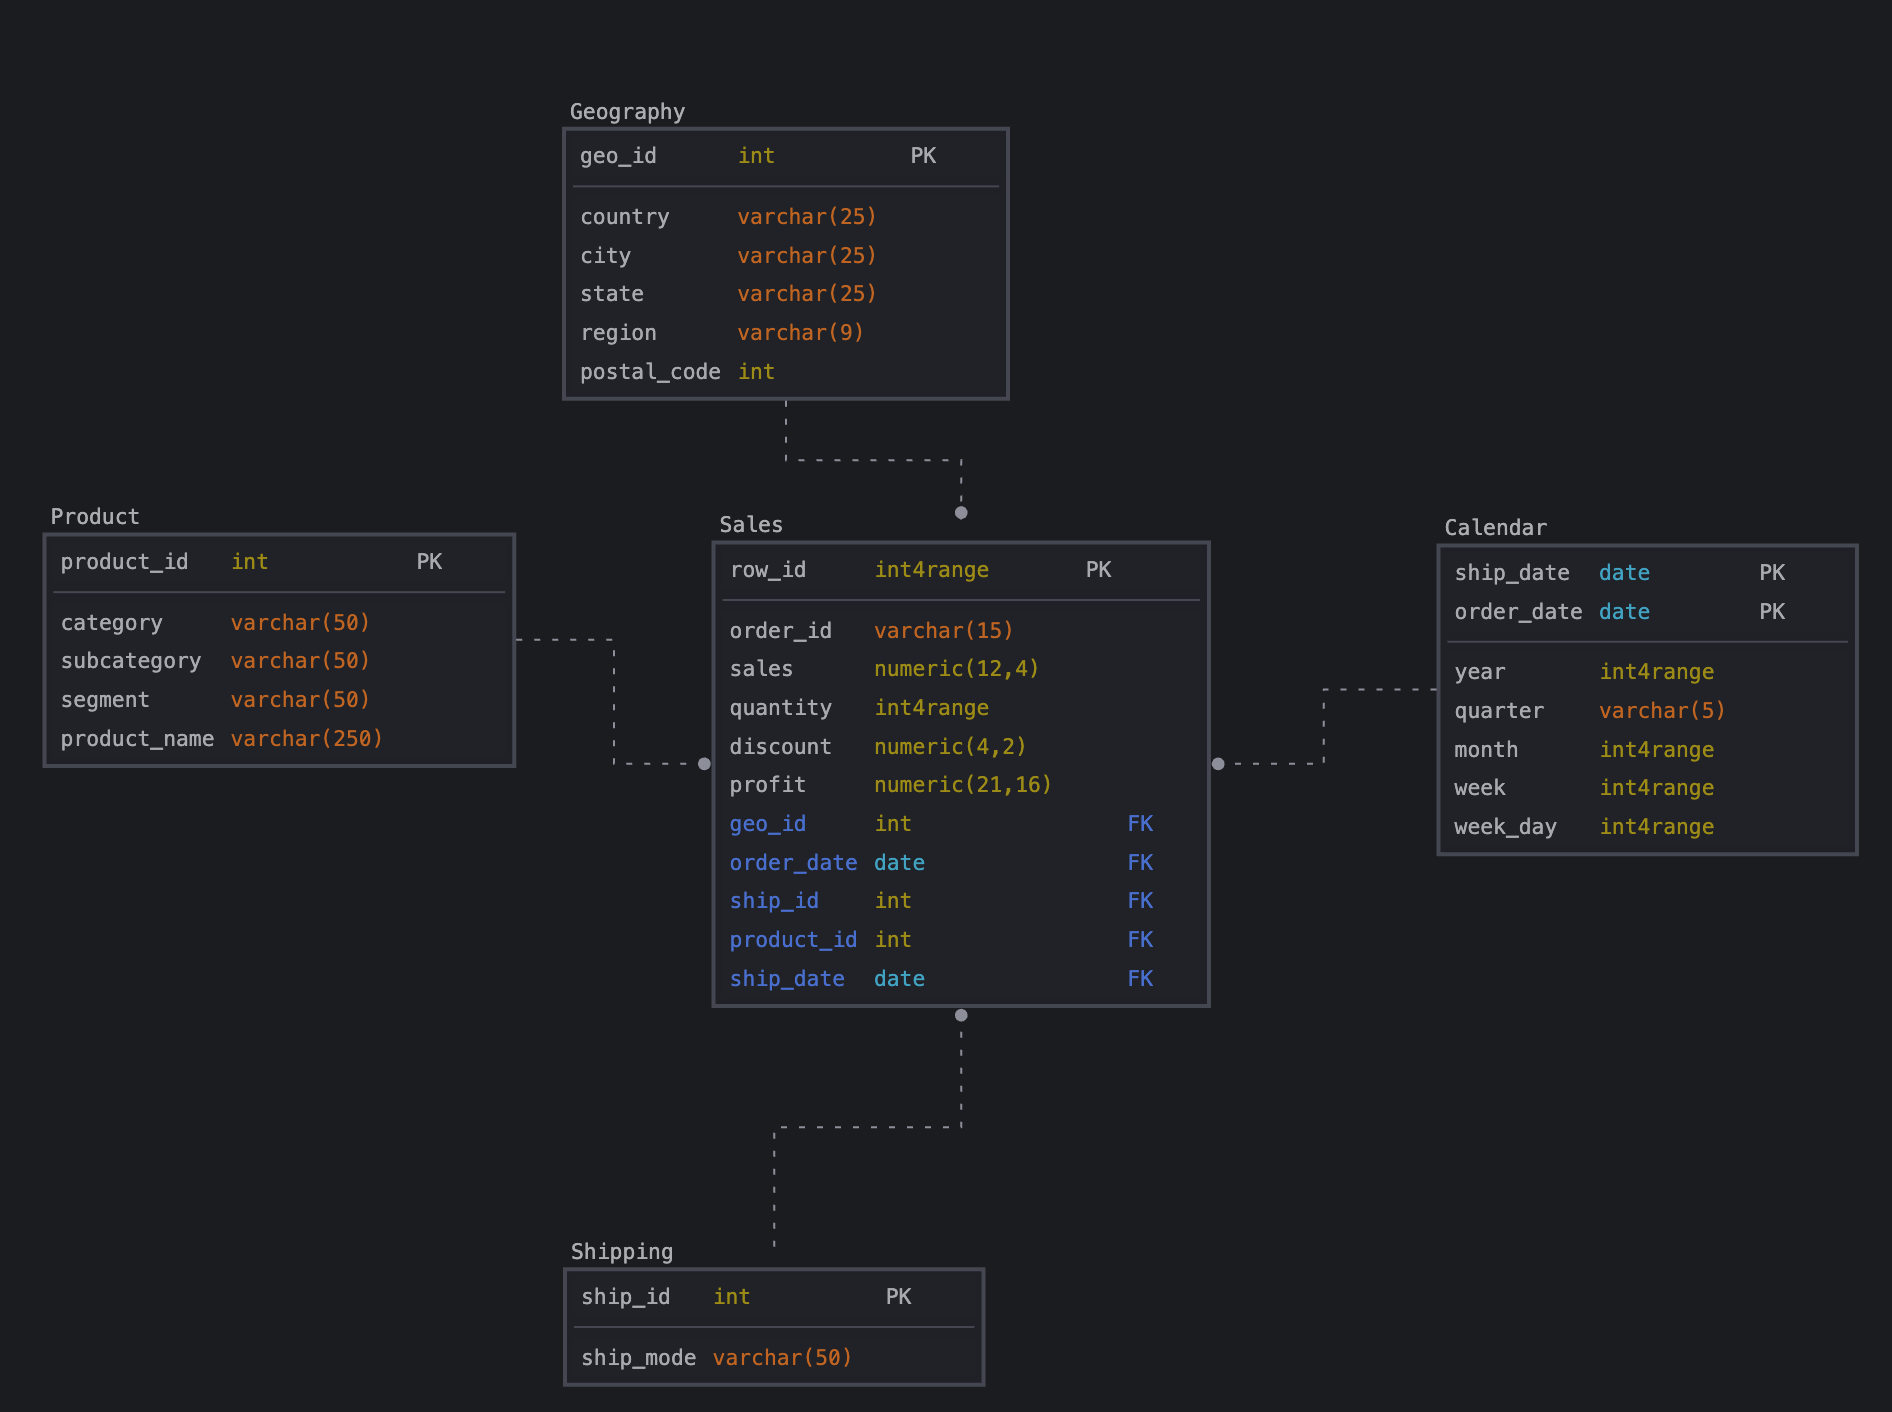
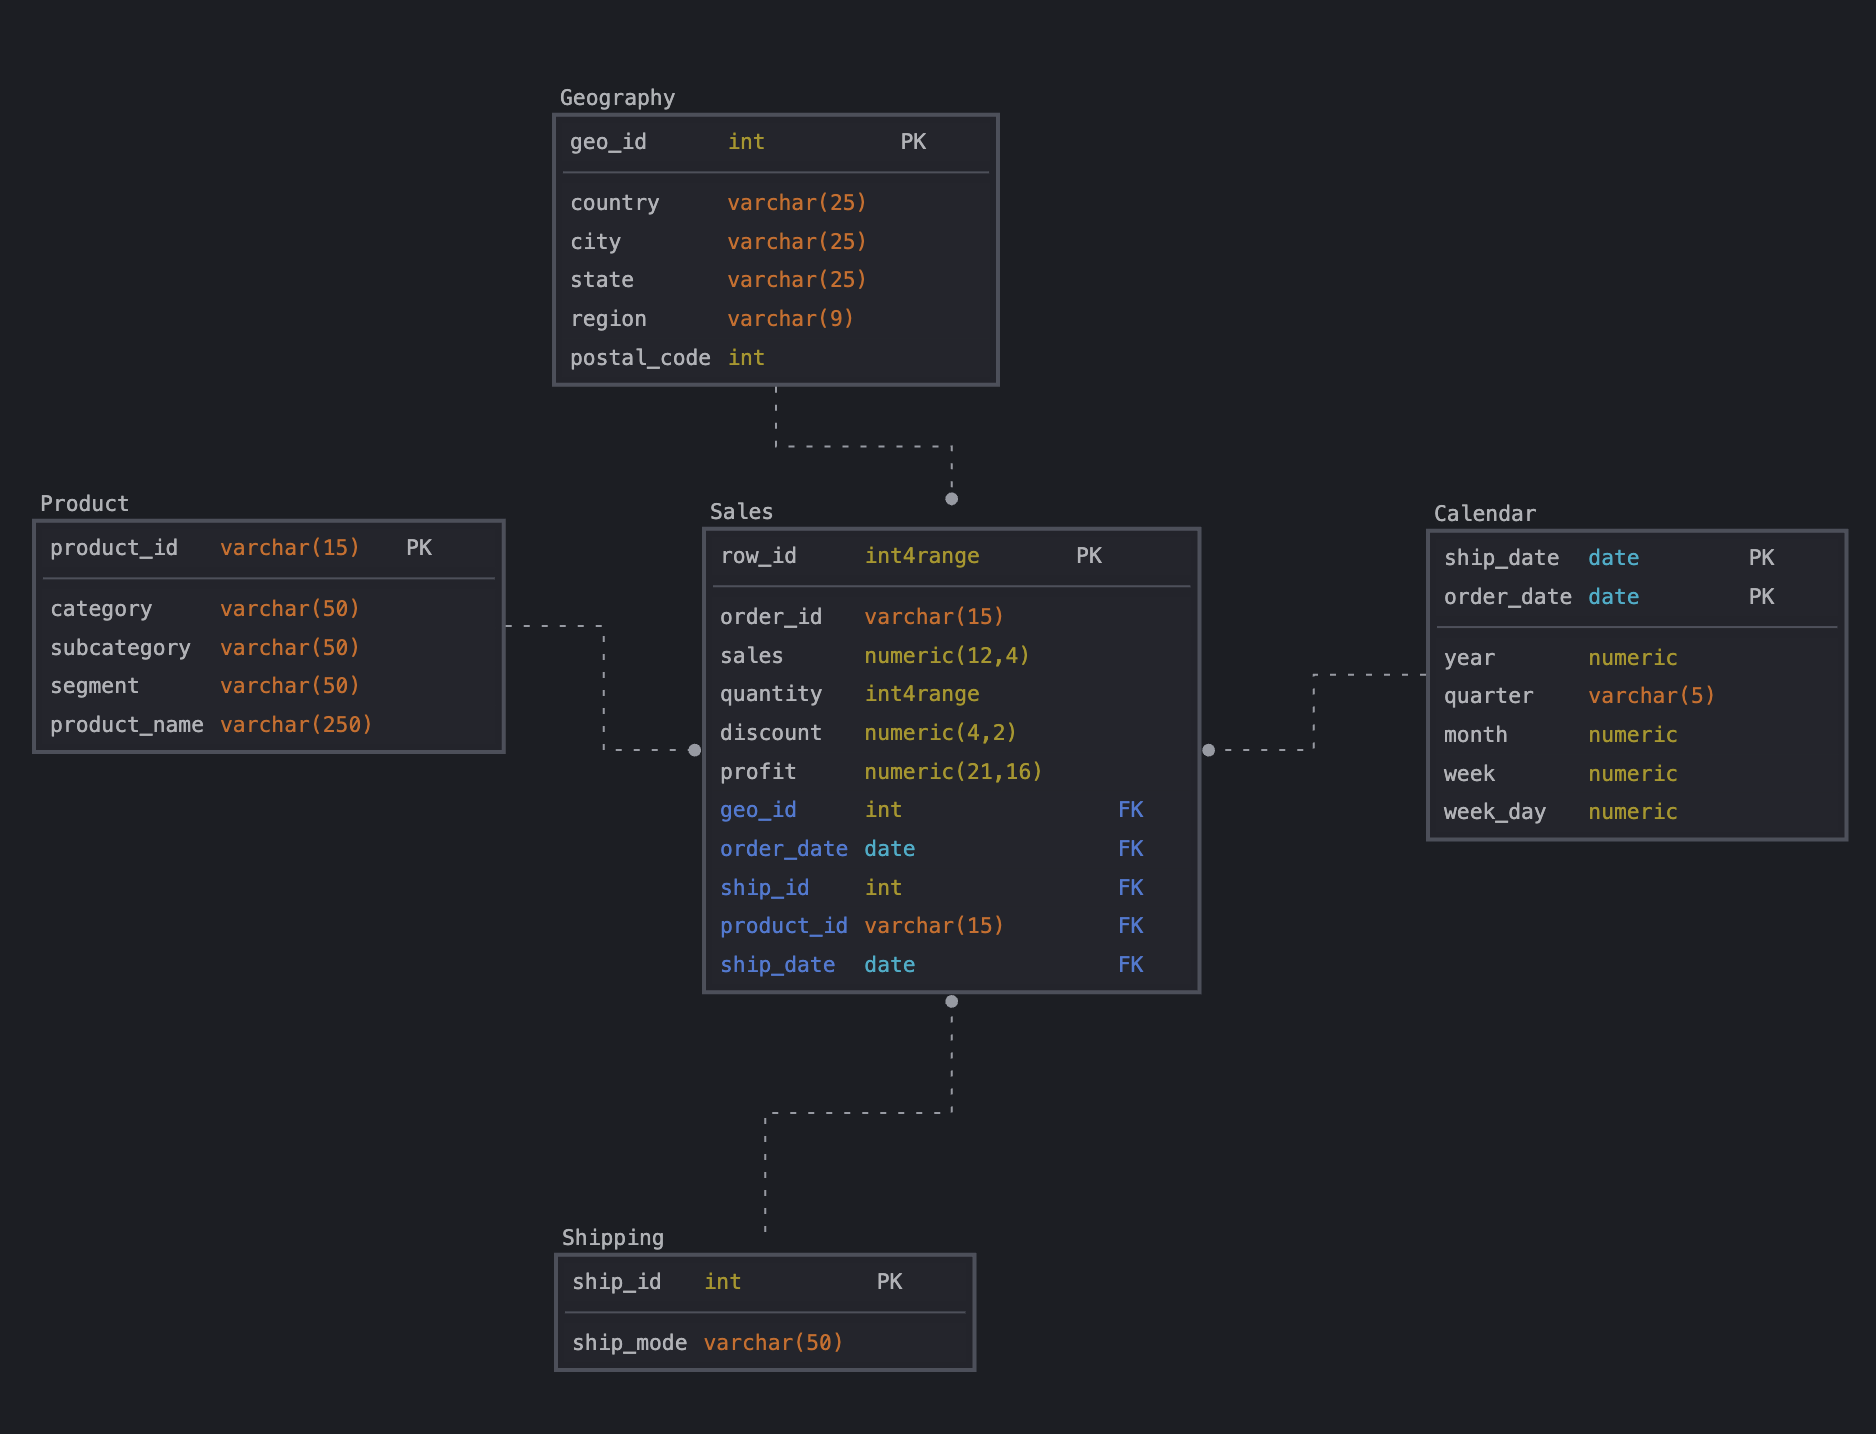
Finish insert and replace physical model

diff --git a/Module_02/readme.md b/Module_02/readme.md
@@ -10,6 +10,32 @@
 ## Физическое моделирование
 ![Phusical Modeling](physical_model.png)
 
-
 ## Код для создания таблиц по схеме модели
 [SQL файл sales](sales.sql)
+
+## Заполнение таблиц
+При insert ... select решил такие нюансы:
+### Geography
+1. В основной таблице sales есть null значение в postal_code - их при заполнении
+таблицы geography убрал, т.к. если считать что это обязательное поле, то данные 
+должны быть, а null это ошибочные данные.
+- Как вариант можно еще добавить через Insert все geoid по postal_code по городу где нет postal_code
+2. Также по postal_code, есть дубль где одному postal_code соответствуют два значения города, проверил по факту, там один postal_code на два города. Как итог оставил уникальные geo_id для каждого из них.
+### Calendar
+Так как у нас два ключа `ship_date` и `order_date`, то тут три возможных варианта:
+- Сделать composite key и через него заполнить уник значениями из sales
+- Разделить значения по разными столбцам в Calendar для каждого из типов дат
+- Разбить каждую строку на две с данными по `ship_date` и `order_date` и добавить тип даты.
+
+Выбрал вариант с `composite key` и столкнулся с проблемой что date не парсится в int4range, так что изменил их на numeric:
+```
+ALTER TABLE calendar
+	ALTER COLUMN year TYPE numeric USING lower(year)::numeric;
+	ALTER COLUMN month TYPE numeric USING lower(month)::numeric;
+	ALTER COLUMN week TYPE numeric USING lower(week)::numeric;
+	ALTER COLUMN week_day TYPE numeric USING lower(week_day)::numeric;
+```
+## Sales
+- Также как и в Geography при insert убрал строки где `postal_code` is null
+- Перевел столбцы `quantity` и `row_id` из integer в оригинальной таблице в
+int4range
